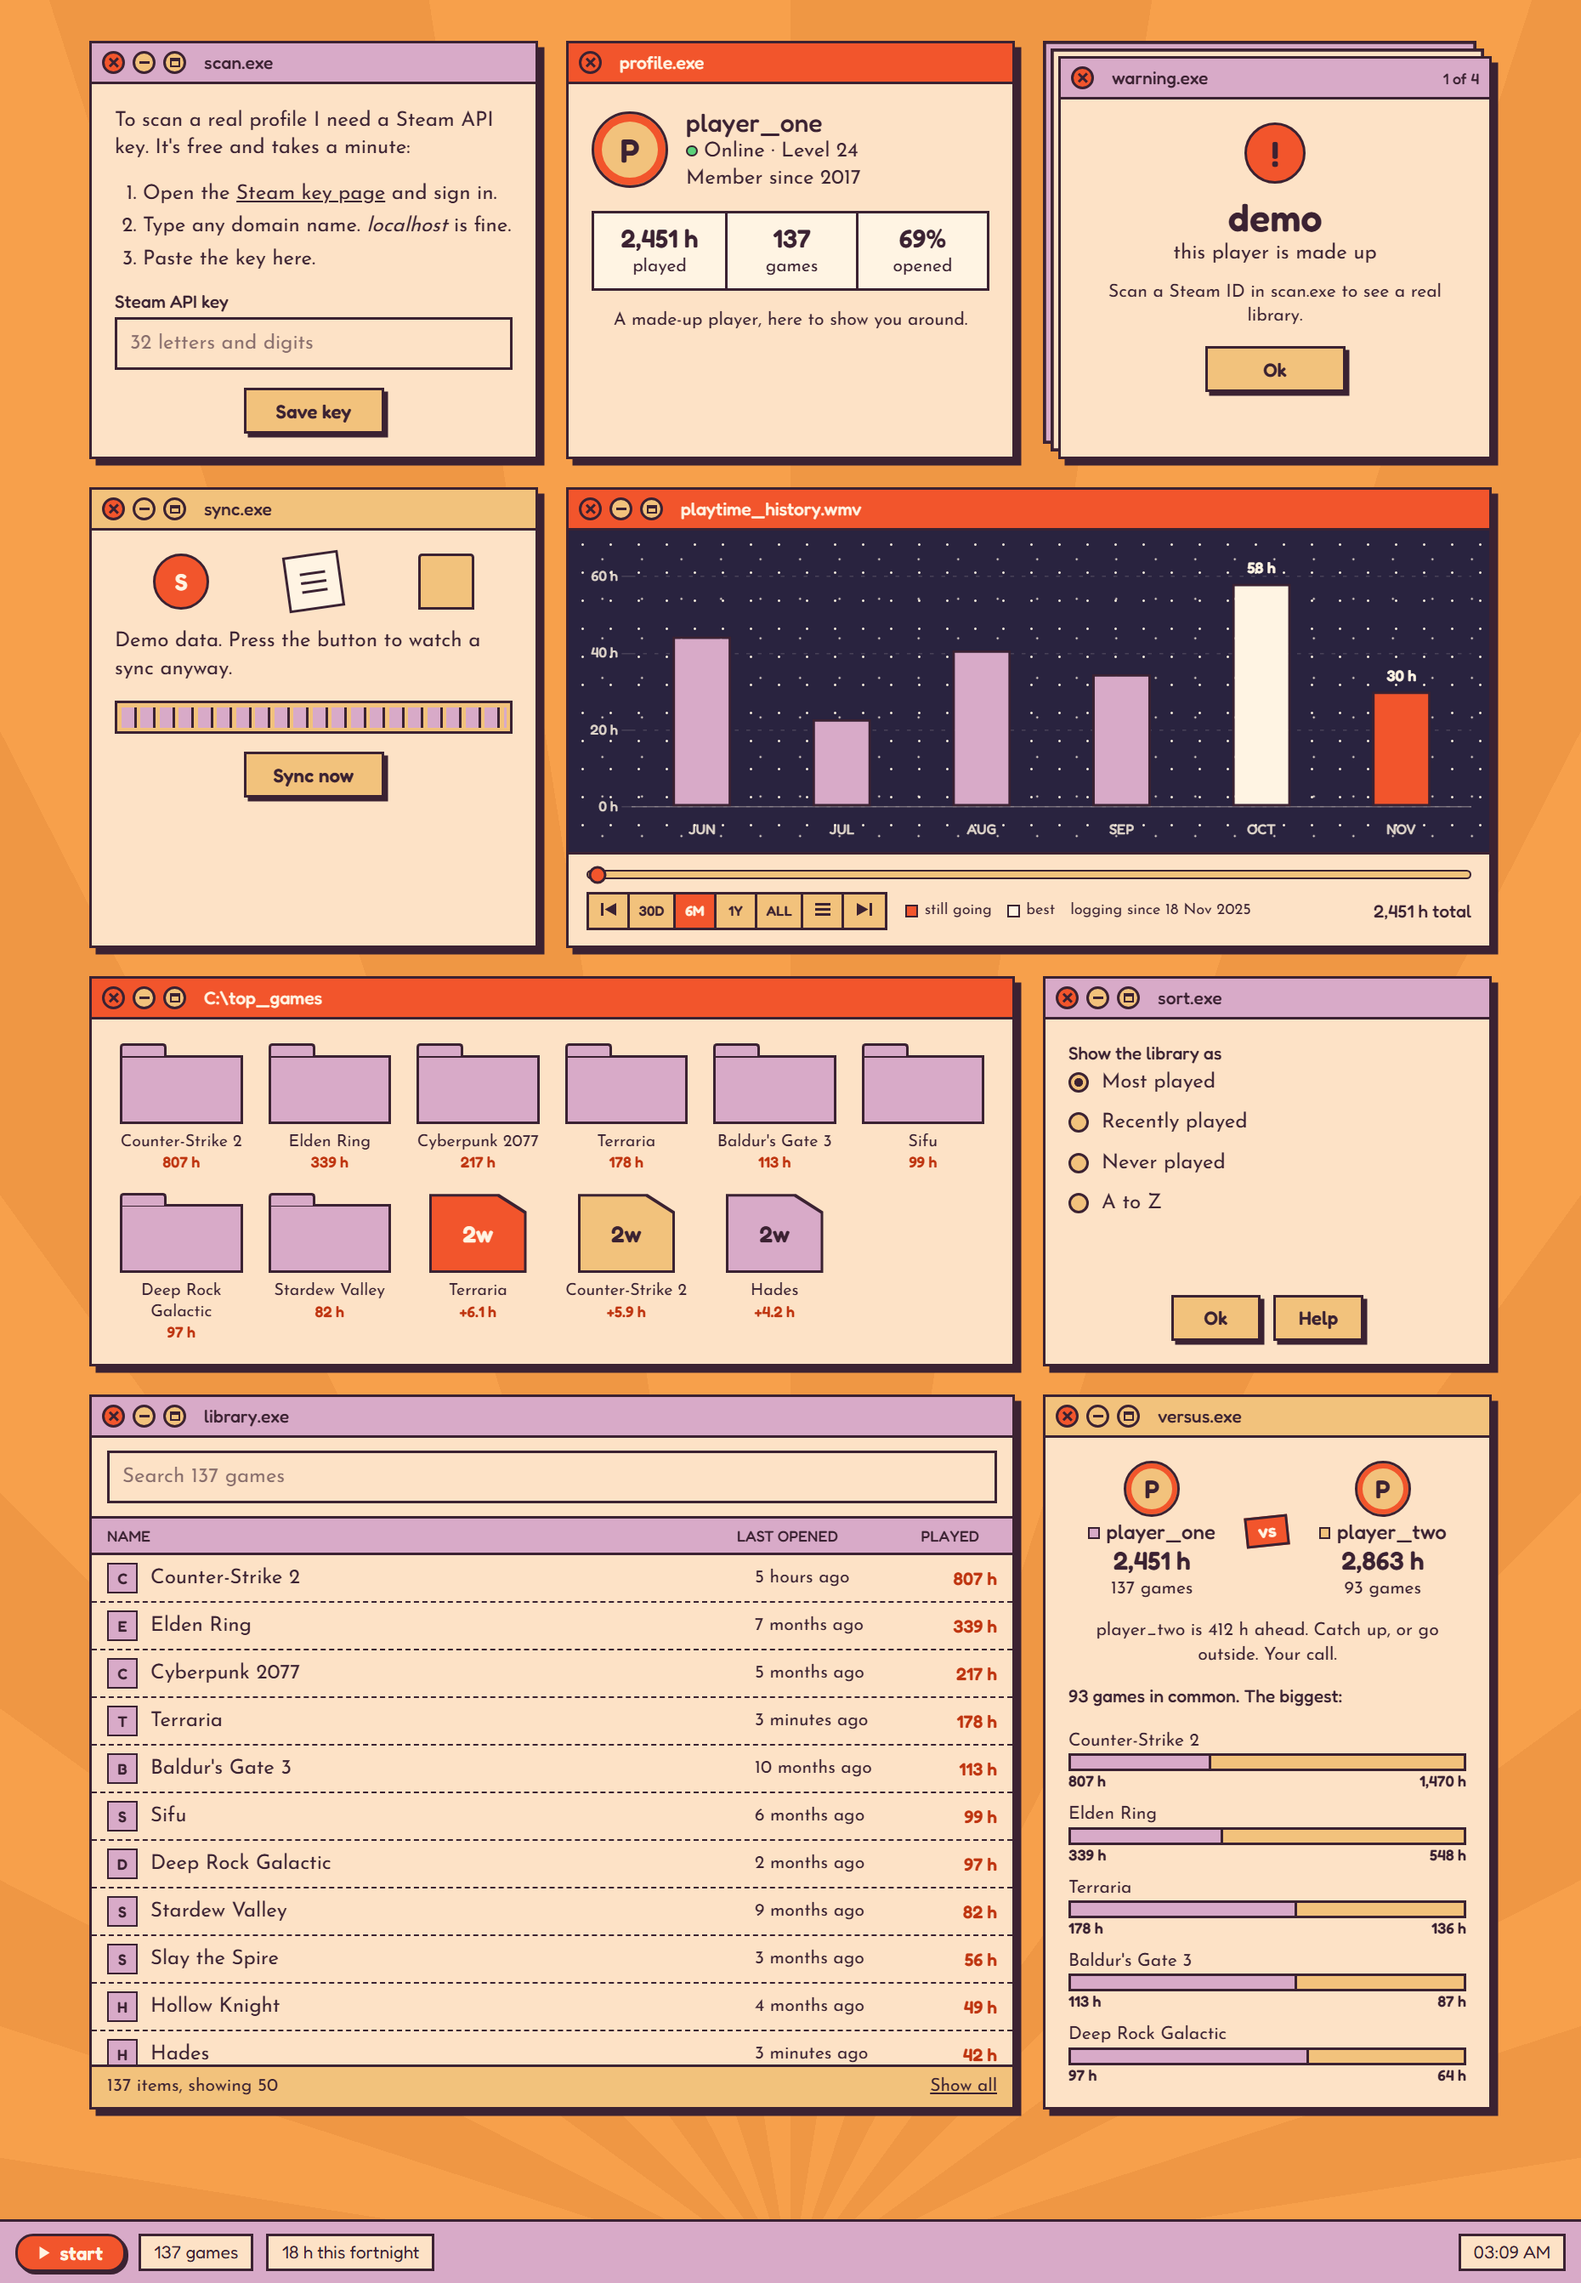
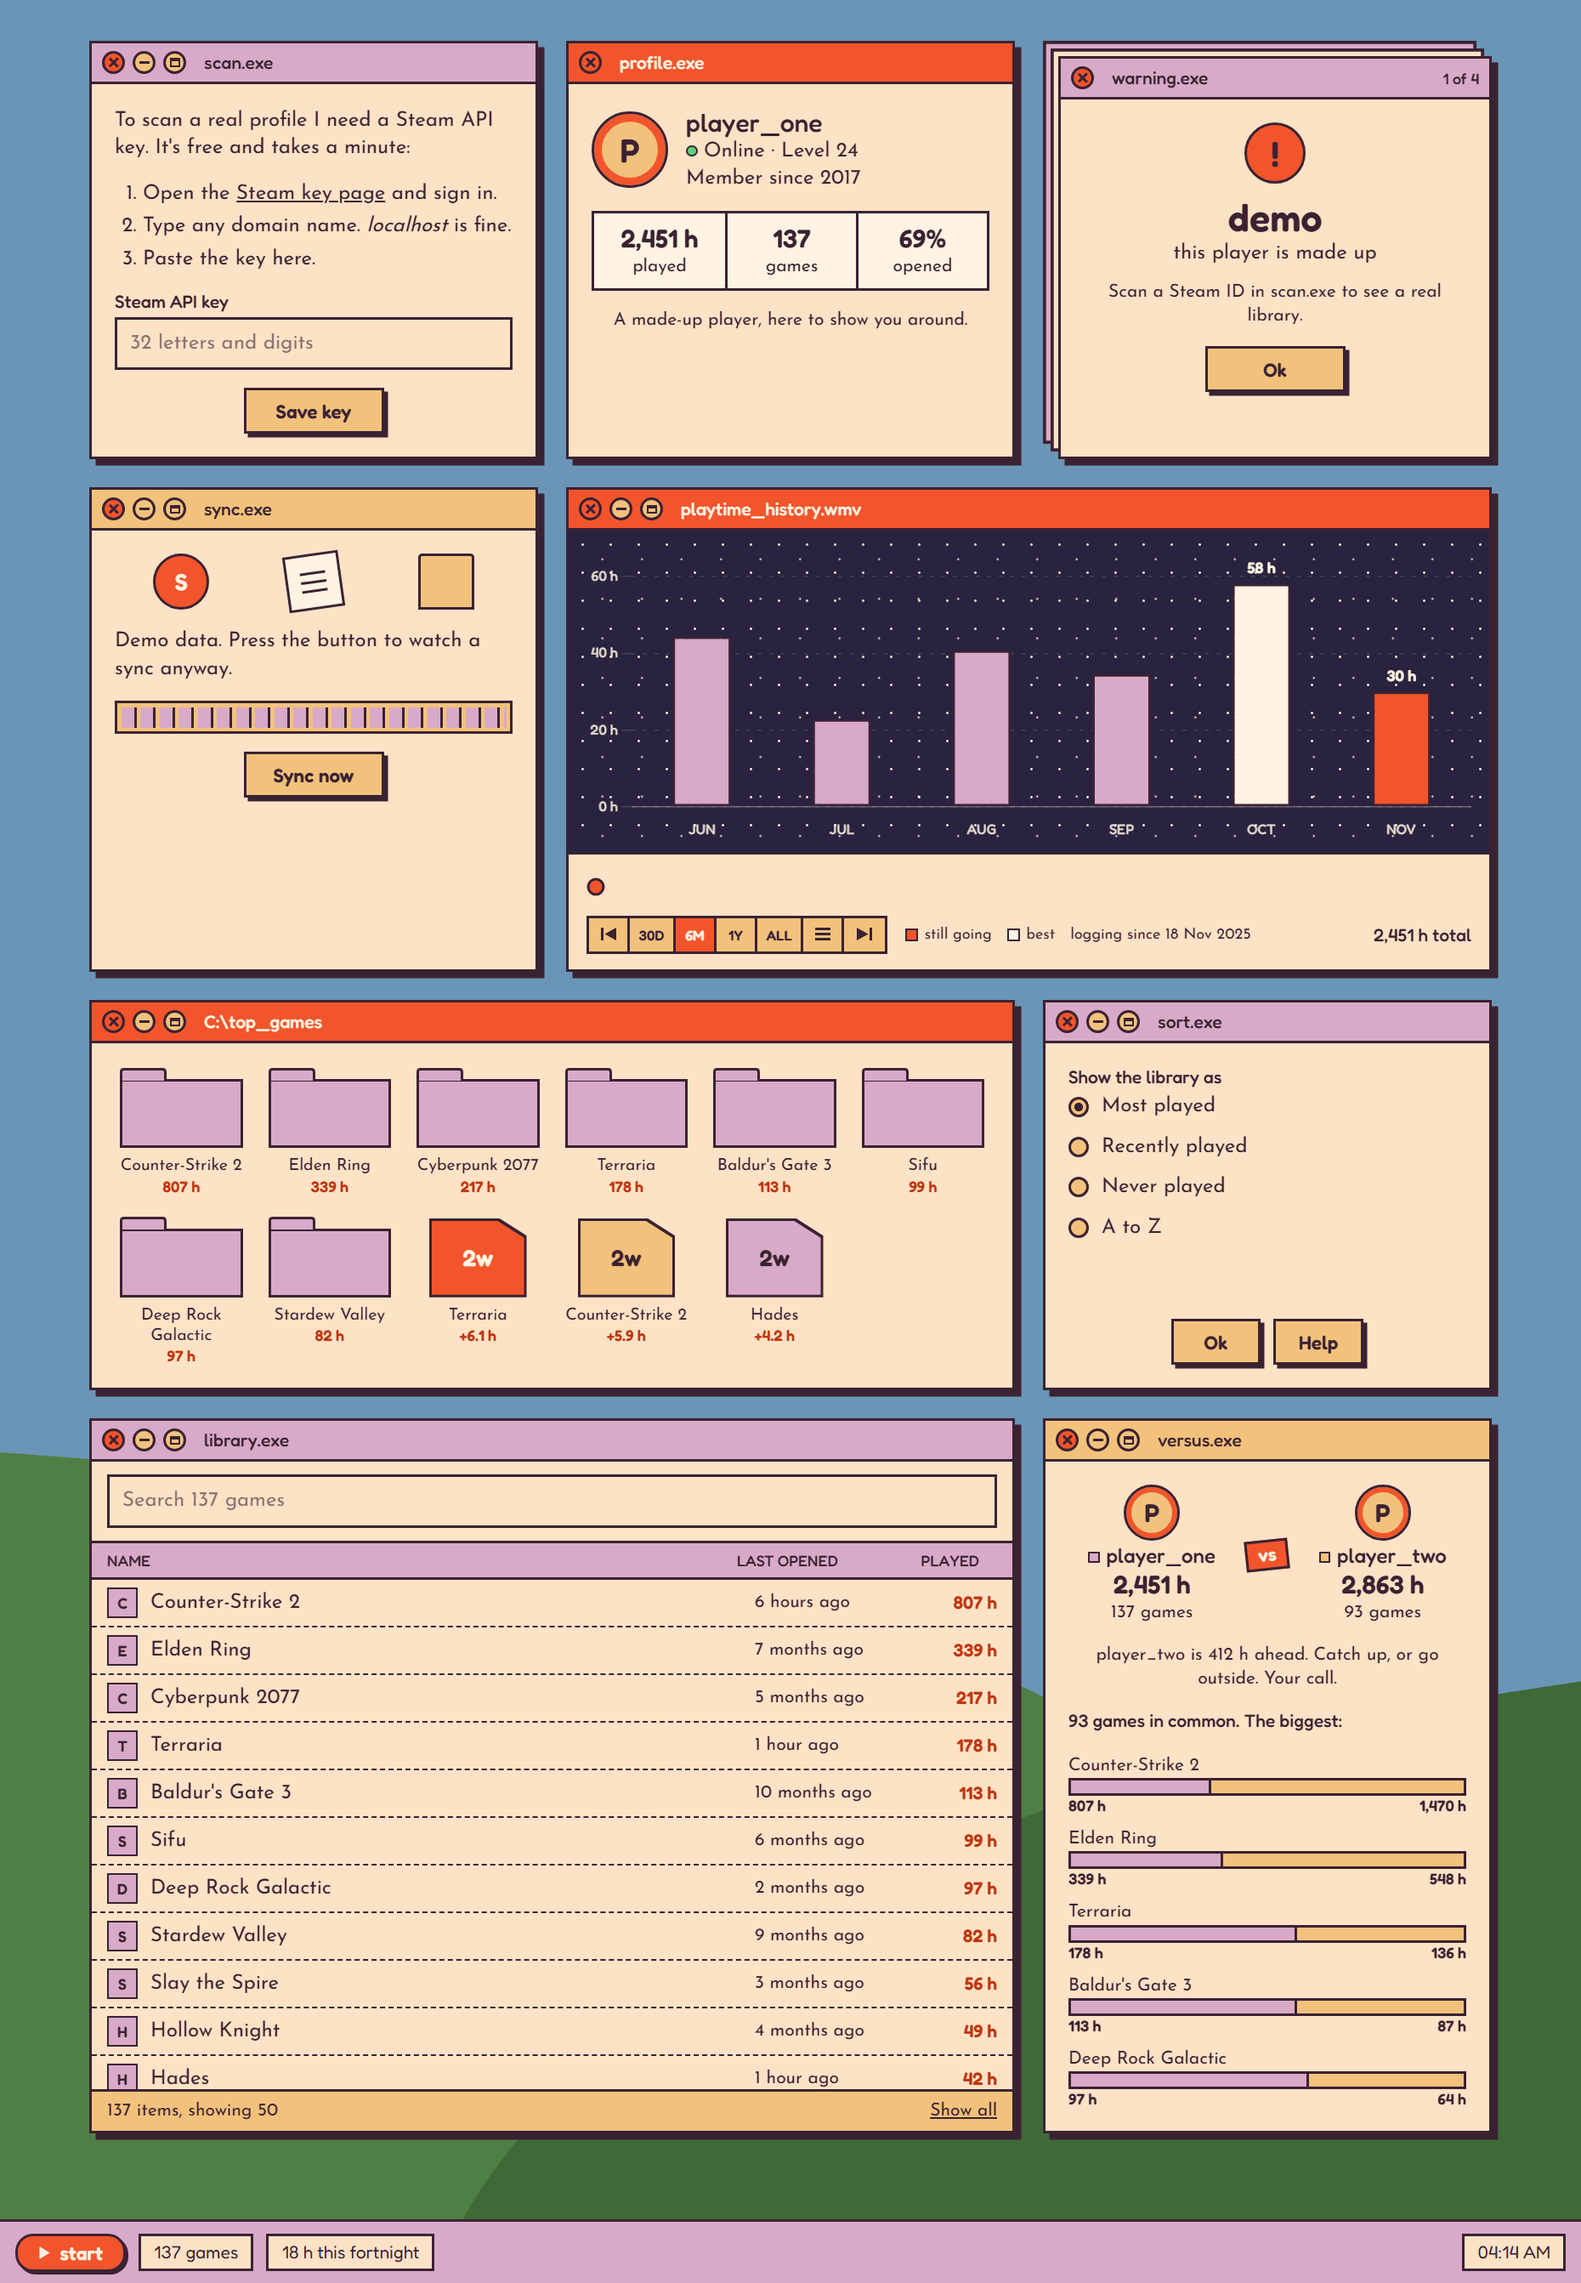
Add the Hills wallpaper and make it the default
A small flat drawing (sky, yellow sun, two green hills) as an inline SVG,
scaled to fill the screen like a photo would, and dimmed 30% towards the
ink colour so the windows stay in front. Its colours and dim level are
--hills-* variables in theme.css. The same drawing is the preview in
wallpaper.exe. The other wallpapers are unchanged, and anyone who already
picked one keeps it; only new installs and Reset start on Hills.

README screenshots retaken with the new default.

diff --git a/static/css/style.css b/static/css/style.css
@@ -166,6 +166,50 @@ a {
   background: var(--bg);
 }
 
+/* Drawings (templates/partials/wallpaper_art.html) sit inside the wallpaper
+   and inside their preview, and only show under their own pattern class. */
+.wallpaper__art {
+  display: none;
+  position: absolute;
+  inset: 0;
+  width: 100%;
+  height: 100%;
+}
+
+/* Hills: the sky colour underneath means no orange flash while it draws.
+   The see-through layer on top is the same idea as the picture's dim. */
+.pattern--hills {
+  background: var(--hills-sky);
+}
+
+.pattern--hills > .art--hills {
+  display: block;
+}
+
+.pattern--hills::after {
+  content: "";
+  position: absolute;
+  inset: 0;
+  background: var(--wallpaper-dim-color);
+  opacity: var(--hills-dim);
+}
+
+.hills__sky {
+  fill: var(--hills-sky);
+}
+
+.hills__sun {
+  fill: var(--hills-sun);
+}
+
+.hills__left {
+  fill: var(--hills-left);
+}
+
+.hills__right {
+  fill: var(--hills-right);
+}
+
 /* The user's own picture: scaled to cover the whole screen (cropped, never
    stretched), with a see-through layer on top that the dim slider controls. */
 .wallpaper__picture {
@@ -1286,6 +1330,7 @@ li:last-child > .row {
 /* The real pattern, drawn three times as big and shrunk to a third, so the
    preview shows a little of the whole wallpaper rather than one corner. */
 .swatch__pattern {
+  position: relative; /* so a drawing's dim layer stays inside the preview */
   display: block;
   width: 300%;
   height: 300%;

diff --git a/templates/partials/wallpaper_art.html b/templates/partials/wallpaper_art.html
@@ -1,0 +1,20 @@
+{#
+  Wallpapers that are little drawings rather than repeating patterns. Each
+  is an inline SVG, so it stays sharp at any size and its colours can come
+  from theme.css. The same drawing is used on the desktop and as its
+  preview in wallpaper.exe; CSS only shows it under its own .pattern--<name>.
+
+      {{ art("hills") }}   draws the hills, art("anything else") draws nothing
+#}
+{% macro art(pattern) %}
+{% if pattern == "hills" %}
+{# The first landscape: a 1600 x 900 scene, scaled to fill the screen like a photo would. #}
+<svg class="wallpaper__art art--hills" viewBox="0 0 1600 900" preserveAspectRatio="xMidYMid slice"
+     aria-hidden="true" focusable="false">
+  <rect class="hills__sky" width="1600" height="900"/>
+  <circle class="hills__sun" cx="1250" cy="220" r="110"/>
+  <ellipse class="hills__left" cx="400" cy="900" rx="700" ry="330"/>
+  <ellipse class="hills__right" cx="1300" cy="950" rx="650" ry="300"/>
+</svg>
+{% endif %}
+{% endmacro %}

diff --git a/templates/partials/wallpaper_window.html b/templates/partials/wallpaper_window.html
@@ -5,6 +5,7 @@
   the slider position and the picture preview are filled in by
   static/js/wallpaper.js when the window opens.
 #}
+{% from "partials/wallpaper_art.html" import art %}
 <template data-popup="wallpaper" data-title="wallpaper.exe" data-color="sand">
   <form class="wallpaper-form" data-wallpaper-form data-max-bytes="{{ wallpaper_max_mb * 1024 * 1024 }}">
     <fieldset class="radios patterns">
@@ -12,7 +13,7 @@
       {% for key, label in wallpaper_patterns.items() %}
       <label>
         <input type="radio" name="pattern" value="{{ key }}">
-        <span class="swatch" aria-hidden="true"><span class="swatch__pattern pattern--{{ key }}"></span></span>
+        <span class="swatch" aria-hidden="true"><span class="swatch__pattern pattern--{{ key }}">{{ art(key) }}</span></span>
         {{ label }}
       </label>
       {% endfor %}

diff --git a/static/css/theme.css b/static/css/theme.css
@@ -74,6 +74,13 @@
   --wallpaper-check: 24px;         /* checker: size of one square */
   --wallpaper-dim-color: var(--ink);  /* what the dim slider darkens a picture towards */
 
+  /* Hills, the default wallpaper: a little drawing of a sunny landscape. */
+  --hills-sky: #7ec8f0;
+  --hills-sun: #ffd34d;
+  --hills-left: #5aa84f;     /* the hill further back */
+  --hills-right: #3f8a3a;    /* the hill in front */
+  --hills-dim: 0.3;          /* 0 = full colour, higher = darker, towards --wallpaper-dim-color */
+
   /* --- Type ---------------------------------------------------------------- */
   --font-ui: "Fredoka", "Segoe UI", sans-serif;          /* titles, buttons, numbers */
   --font-body: "Josefin Sans", "Segoe UI", sans-serif;   /* everything else */

diff --git a/templates/base.html b/templates/base.html
@@ -1,3 +1,4 @@
+{% from "partials/wallpaper_art.html" import art %}
 <!DOCTYPE html>
 <html lang="en">
 <head>
@@ -17,6 +18,7 @@
   {% set wp = wallpaper() %}
   <div class="wallpaper pattern--{{ wp.pattern }}" data-wallpaper data-dim="{{ wp.dim }}" aria-hidden="true"
        style="--wallpaper-dim: {{ wp.dim / 100 }}">
+    {{ art("hills") }}
     {% if wp.picture_url %}
     <img class="wallpaper__picture" src="{{ wp.picture_url }}" alt="" data-wallpaper-picture>
     {% endif %}

diff --git a/config.py b/config.py
@@ -91,15 +91,17 @@ MAX_ALERTS = 5
 
 # --- Wallpaper (wallpaper.exe) -----------------------------------------------
 
-# The built-in patterns: key -> name shown in wallpaper.exe. Each key has a
+# The built-in wallpapers: key -> name shown in wallpaper.exe. Each key has a
 # .pattern--<key> rule in style.css that draws it (colours in theme.css).
+# Drawings like "hills" also have their shapes in partials/wallpaper_art.html.
 WALLPAPER_PATTERNS = {
+    "hills": "Hills",
     "sunburst": "Sunburst",
     "dots": "Halftone dots",
     "checker": "Soft checker",
     "plain": "Plain orange",
 }
-DEFAULT_WALLPAPER = "sunburst"
+DEFAULT_WALLPAPER = "hills"
 WALLPAPER_MAX_MB = 25       # biggest picture that can be imported
 DEFAULT_WALLPAPER_DIM = 30  # percent the dim slider starts at
 WALLPAPER_DIM_MAX = 80      # percent; past this a picture is barely there

diff --git a/tests/test_app.py b/tests/test_app.py
@@ -299,3 +299,8 @@ def test_the_old_picture_stops_being_served_after_reset(client):
     url = upload(client, PNG).json["picture_url"]
     client.post("/wallpaper/reset")
     assert client.get(url).status_code == 404
+
+
+def test_the_hills_drawing_is_on_every_page_and_in_its_preview(client):
+    for page in (client.get(DEMO_PAGE).text, client.get("/player/nobody").text):
+        assert page.count('class="wallpaper__art art--hills"') == 2  # the desktop + the preview in wallpaper.exe

diff --git a/README.md b/README.md
@@ -109,7 +109,8 @@ On my machine the dashboard for a 3,000-game library renders in about 25 ms, and
 - **Colours, fonts, outline thickness, spacing:** `static/css/theme.css`. Nothing else contains a colour, and the charts read theirs from the same file.
 - **Behaviour:** `config.py` (how many top games, cache time, chart ranges, alert thresholds, window size, version number).
 - **The jokes:** `captions.py`.
-- **A new wallpaper pattern:** add a name to `WALLPAPER_PATTERNS` in `config.py` and a `.pattern--<name>` rule in `style.css`. It shows up in wallpaper.exe, preview included.
+- **A new wallpaper pattern:** add a name to `WALLPAPER_PATTERNS` in `config.py` and a `.pattern--<name>` rule in `style.css`. It shows up in wallpaper.exe, preview included. A drawing (like the default, Hills) also gets its shapes in `templates/partials/wallpaper_art.html`.
+- **The Hills colours, or how dim it is:** the `--hills-*` variables in `theme.css`. `--hills-dim: 0` shows it in full colour.
 - **A new sort order:** add one function and one line to `SORT_ORDERS` in `stats.py`. The radio button appears on its own.
 - **Window order:** reorder the `include` lines in `templates/dashboard.html`.
 
